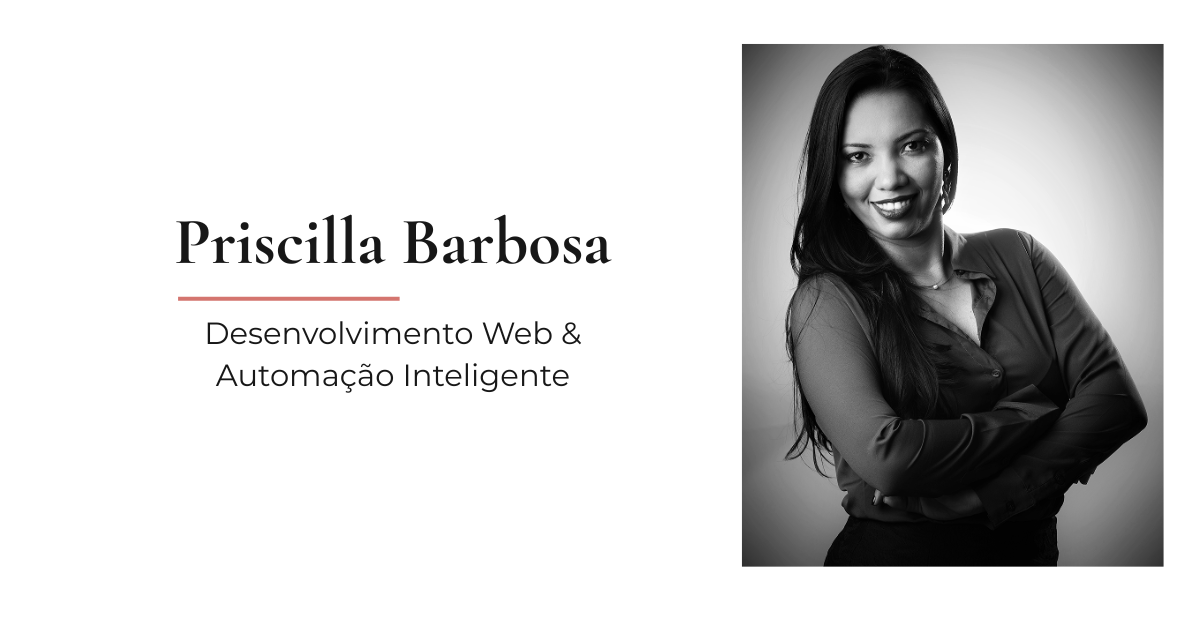
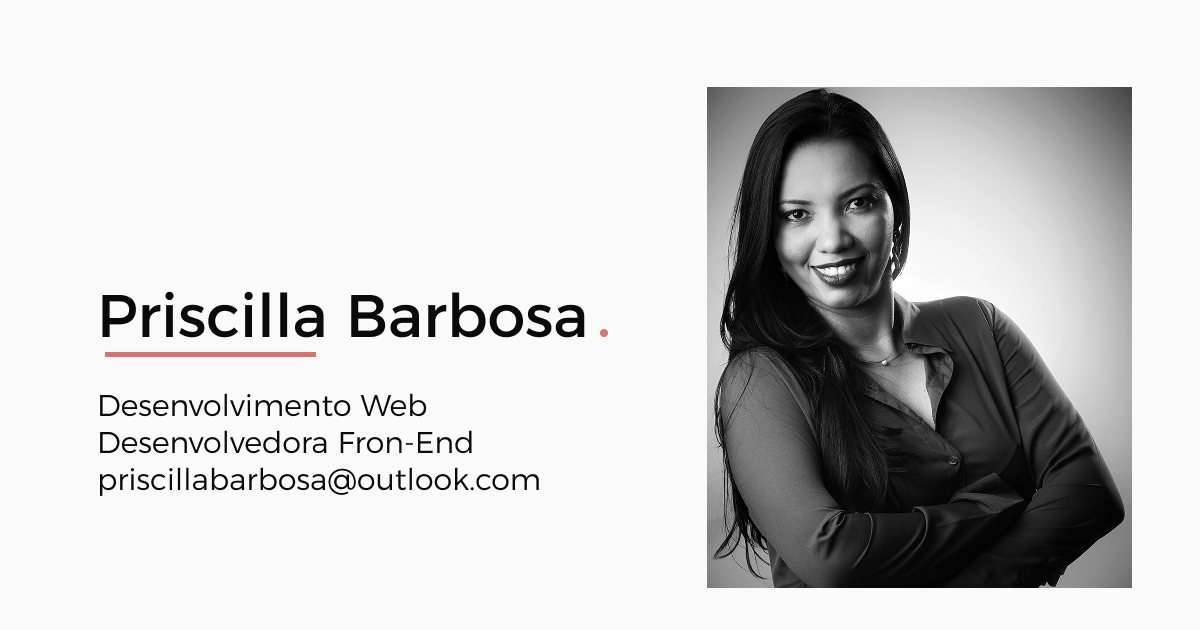
ajustando head

diff --git a/frontend-portifolio/index.html b/frontend-portifolio/index.html
@@ -4,20 +4,20 @@
     <meta charset="UTF-8">
     <meta name="viewport" content="width=device-width, initial-scale=1.0">
     
-    <title>Priscilla Barbosa | Desenvolvimento Web e Automação para Negócios</title>
+    <title>Priscilla Barbosa | Desenvolvimento Web & Experiência Digital</title>
     
-    <meta name="description" content="Desenvolvimento de sites profissionais e automação de processos para produtoras de eventos e profissionais liberais. 15 anos de experiência em gestão, agora somados à tecnologia. Economia de 10-20h/semana garantida.">
-    <meta name="keywords" content="desenvolvimento web belo horizonte, automação de processos, sites para eventos, sites para cerimoniais, sites para formaturas, landing page, consultoria digital, transformação digital, desenvolvedor bh">
+    <meta name="description" content="Desenvolvimento de sites profissionais para produtoras de eventos e profissionais liberais. 10 anos de experiência em gestão, agora somados à tecnologia. Construa sua presença digital">
+    <meta name="keywords" content="desenvolvimento web belo horizonte, sites para eventos, sites para cerimoniais, sites para formaturas, landing page, consultoria digital, transformação digital, desenvolvedor bh, desenvolvedora Front-End">
     <meta name="author" content="Priscilla Barbosa">
     <meta name="robots" content="index, follow">
 
-    <meta property="og:title" content="Priscilla Barbosa | Desenvolvimento Web + Automação para Negócios">
-    <meta property="og:description" content="Tecnologia que liberta seu tempo e profissionaliza seu negócio. Sites + Automações para produtoras de eventos e profissionais liberais. ROI comprovado em 2-4 meses.">
+    <meta property="og:title" content="Priscilla Barbosa | Desenvolvimento Web para Negócios">
+    <meta property="og:description" content="Tecnologia que profissionaliza seu negócio. Sites para produtoras de eventos e profissionais liberais.">
     <meta property="og:url" content="https://priscillabarbosa.com.br">
     <meta property="og:image" content="https://priscillabarbosa.com.br/img/Priscilla-Barbosa.webp">
     <meta property="og:image:width" content="1200">
     <meta property="og:image:height" content="630">
-    <meta property="og:image:alt" content="Priscilla Barbosa - Desenvolvimento Web e Automação">
+    <meta property="og:image:alt" content="Priscilla Barbosa - Desenvolvimento Web">
     <meta property="og:site_name" content="Priscilla Barbosa">
     <meta property="og:locale" content="pt_BR">
 
